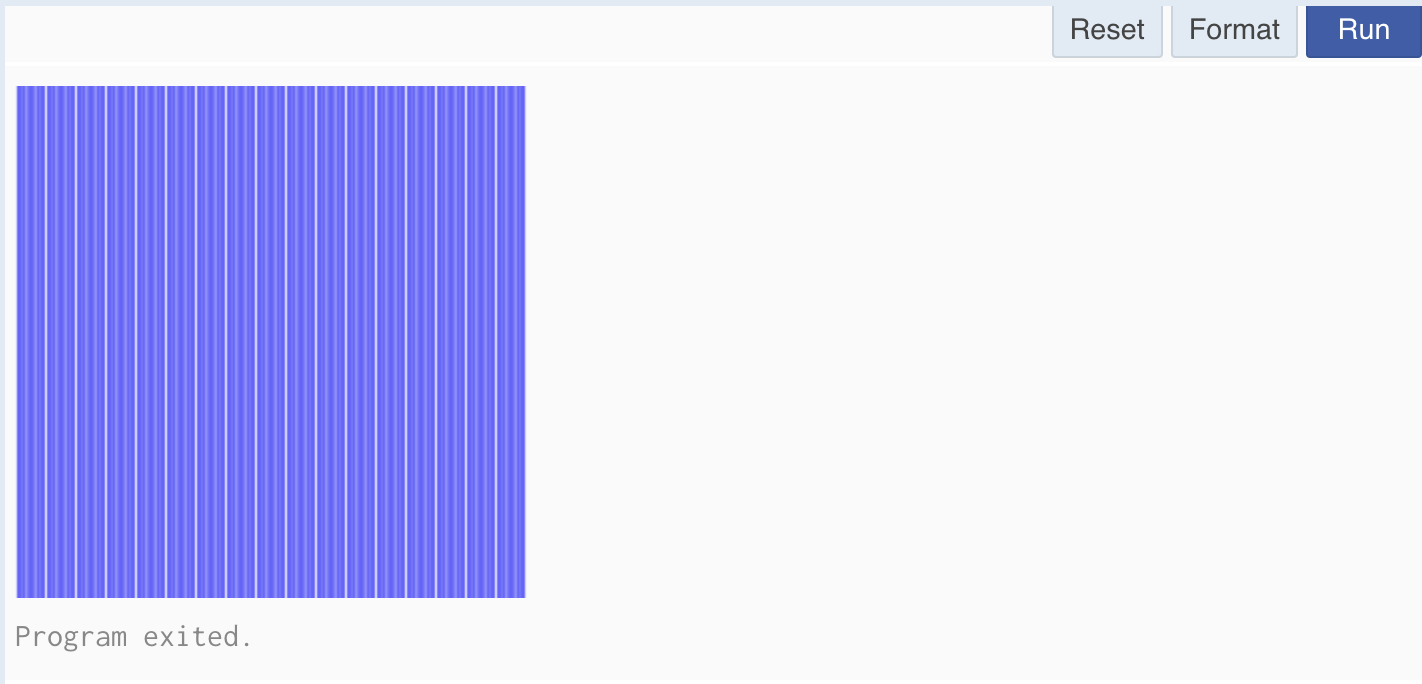
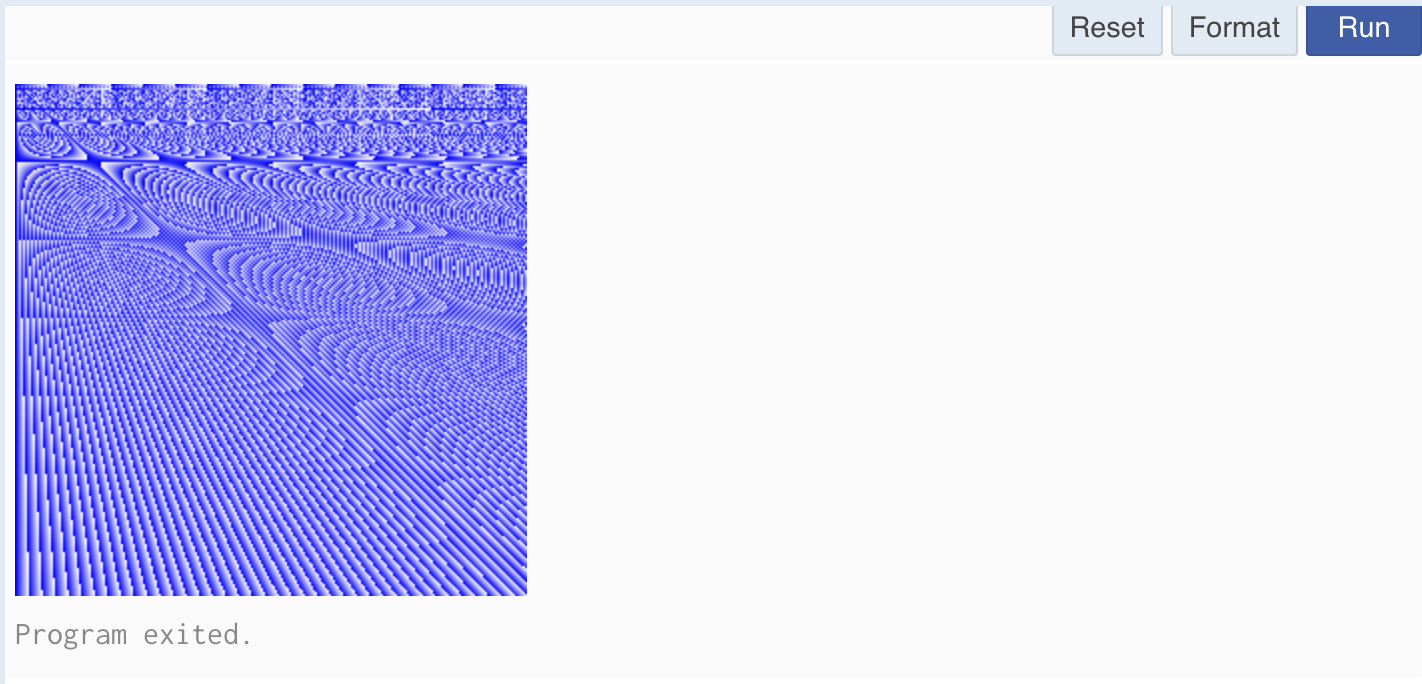
simplify the exercise and update bluescale image

diff --git a/code/day02/exercise-slices.go b/code/day02/exercise-slices.go
@@ -29,19 +29,9 @@ func createTwoDimensionalArray(dx, dy int) [][]uint8 {
 func Pic(dx, dy int) [][]uint8 {
 	var arr = createTwoDimensionalArray(dx, dy)
 
-	// eventually I'll configure gofmt with my own style preferences, but until then...
 	for i := 0; i < dy; i++ {
 		for j := 0; j < dx; j++ {
-			switch {
-			case j%15 == 0:
-				arr[i][j] = 240
-			case j%3 == 0:
-				arr[i][j] = 120
-			case j%5 == 0:
-				arr[i][j] = 150
-			default:
-				arr[i][j] = 100
-			}
+			arr[i][j] = uint8((j * 10000) / (i + 2))
 		}
 	}
 
